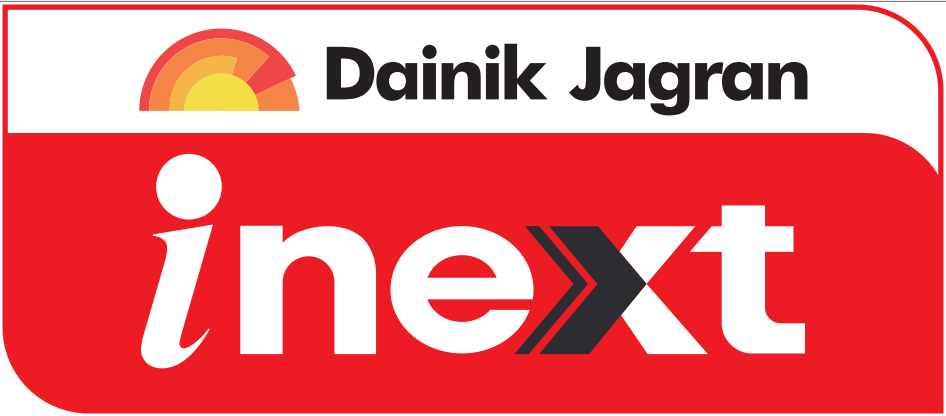
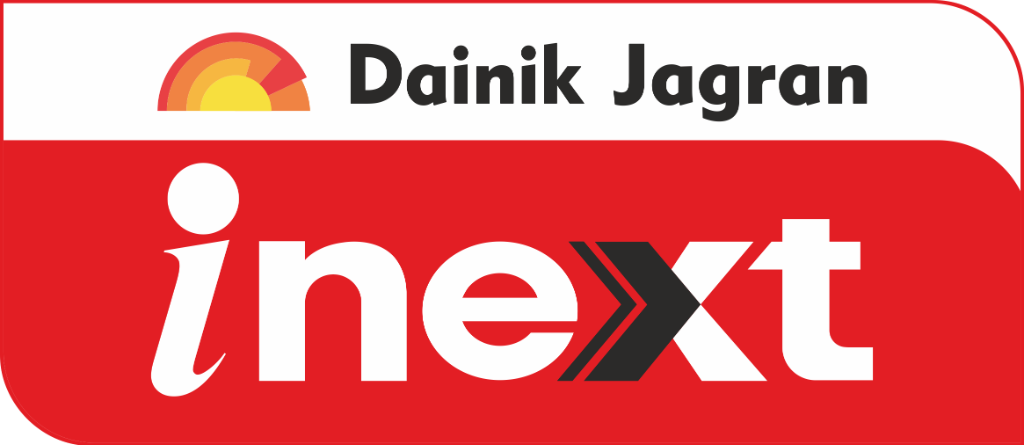
feat: added dainik jagran inext sponsor

diff --git a/RENAISSANCE-ECELL-2026/client/src/pages/Home.jsx b/RENAISSANCE-ECELL-2026/client/src/pages/Home.jsx
@@ -200,13 +200,19 @@ const CURRENT_SPONSORS =
         fallbackImage: "/sponsors/abhibus.png",
         description: "Official Travel Partner for Renaissance 2026.",
       },
+      {
+        name: "Dainik Jagran inext",
+        category: "Media Partner",
+        image: CLOUDINARY_SPONSORS.dainikJagranInext || "/sponsors/dainik-jagran-inext.png",
+        fallbackImage: "/sponsors/dainik-jagran-inext.png",
+        description: "Official Media Partner for Renaissance 2026.",
+      },
     ];
 
 const PAST_SPONSORS = [
   { name: "Paytm Build for India", image: "/sponsors/paytm-build-for-india.png" },
   { name: "Haldiram Bhujiawala", image: "/sponsors/haldiram-bhujiawala.png" },
   { name: "Superhits Red FM 93.5", image: "/sponsors/red-fm-93-5.png" },
-  { name: "Dainik Jagran Inext", image: "/sponsors/dainik-jagran-inext.png" },
   { name: "HDFC Bank", image: "/sponsors/hdfc-bank.png" },
   { name: "Dalal Street", image: "/sponsors/dalal-street.png" },
   { name: "ICICI Bank", image: "/sponsors/icici.png" },

diff --git a/RENAISSANCE-ECELL-2026/client/src/data/sponsorsData.js b/RENAISSANCE-ECELL-2026/client/src/data/sponsorsData.js
@@ -214,5 +214,18 @@ export const SPONSOR_TIERS = [
         description: "Official Communication Partner for Renaissance 2026.",
       }
     ],
+  },
+  {
+    id: "media",
+    title: "Media Partner",
+    sponsors: [
+      {
+        name: "Dainik Jagran inext",
+        category: "Media Partner",
+        image: CLOUDINARY_SPONSORS.dainikJagranInext || getAssetUrl("/sponsors/dainik-jagran-inext.png"),
+        fallbackImage: getAssetUrl("/sponsors/dainik-jagran-inext.png"),
+        description: "Official Media Partner for Renaissance 2026.",
+      }
+    ],
   }
 ];
